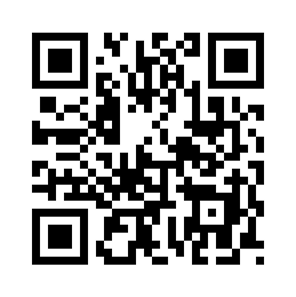
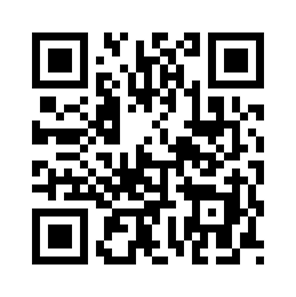
fix(download section): adjust size and border radius

diff --git a/src/components/home/DownloadSection.tsx b/src/components/home/DownloadSection.tsx
@@ -20,20 +20,20 @@ export default function DownloadSection() {
             <br className='hidden md:block' />
             mobile and tablet devices.
           </p>
-          <div className='bg-white p-2 md:p-3 rounded-md md:rounded-xl shadow-md w-fit mb-2 md:mb-0'>
+          <div className='bg-white p-2 md:p-3  shadow-md w-fit mb-2 md:mb-0'>
             <Image
               src={qrCode}
               alt='QR Code'
-              width={80}
-              height={80}
-              className='w-16 h-16 object-contain md:w-48 md:h-48'
+              width={296}
+              height={296}
+              className='w-32 md:w-64 h-32 md:h-64 object-contain'
               priority
             />
           </div>
         </div>
         {/* Right: Phone Image */}
         <div className='md:w-1/2 flex justify-center items-center mt-14'>
-          <div className='hidden md:block relative w-[500px] h-96 mx-auto'>
+          <div className='hidden md:block relative w-[550px] h-96 mx-auto'>
             <Image
               src={phone}
               alt='Phone'
